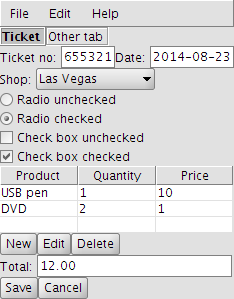
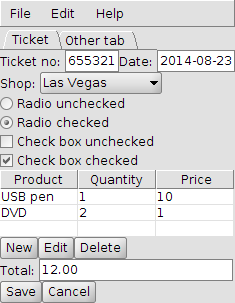
Render tabs using JTabbedPane instead of JPanel with border.

Changed region(s): [[0.0, 0.0301, 1.0, 1.0]]

diff --git a/src/org/mar9000/salt/visitor/SaltSwingVisitor.java b/src/org/mar9000/salt/visitor/SaltSwingVisitor.java
@@ -19,10 +19,8 @@
 package org.mar9000.salt.visitor;
 
 import java.awt.BorderLayout;
-import java.awt.Color;
 import java.awt.Component;
 import java.awt.Container;
-import java.awt.Font;
 import java.util.Iterator;
 import java.util.Vector;
 
@@ -37,9 +35,9 @@ import javax.swing.JMenu;
 import javax.swing.JMenuBar;
 import javax.swing.JPanel;
 import javax.swing.JRadioButton;
+import javax.swing.JTabbedPane;
 import javax.swing.JTable;
 import javax.swing.JTextField;
-import javax.swing.border.EtchedBorder;
 
 import org.antlr.v4.runtime.tree.AbstractParseTreeVisitor;
 import org.antlr.v4.runtime.tree.ParseTree;
@@ -194,28 +192,25 @@ public class SaltSwingVisitor extends AbstractParseTreeVisitor<Container> implem
 		return returnPanel;
 	}
 
-	public static final Color SELECTED_TAB_BACKGROUND_COLOR = new Color(192, 192, 192);
 	@Override
-	public JPanel visitTabBar(TabBarContext ctx) {
-		JPanel tabBar = defaultResult();
-		//tabBar.setBorder(new BevelBorder(BevelBorder.LOWERED));
+	public JTabbedPane visitTabBar(TabBarContext ctx) {
+		JTabbedPane tabbedPane = new JTabbedPane(JTabbedPane.TOP, JTabbedPane.SCROLL_TAB_LAYOUT);
+		//
 		Iterator<TabContext> iter = ctx.tab().iterator();
+		int index = -1;
 		while (iter.hasNext()) {
+			// Vertical box layout to allocate group rows.
+			JPanel p = new JPanel();
+			p.setLayout(new BoxLayout(p, BoxLayout.Y_AXIS));
 			TabContext tabContext = iter.next();
-			JLabel tabLabel = new JLabel(tabContext.text().getText());
-			tabLabel.setOpaque(true);
+			tabbedPane.addTab(tabContext.text().getText(), p);
+			index++;
 			if (tabContext.SELECTED_TAB() != null) {
-				tabLabel.setBackground(SELECTED_TAB_BACKGROUND_COLOR);
-				tabLabel.setFont(tabLabel.getFont().deriveFont(Font.BOLD));
-				tabLabel.setBorder(new EtchedBorder(EtchedBorder.RAISED));
-				tabLabel.setOpaque(true);
-			} else {
-				tabLabel.setBorder(new EtchedBorder(EtchedBorder.LOWERED));
+				tabbedPane.setSelectedIndex(index);
 			}
-			tabBar.add(tabLabel);
 		}
 		//
-		return tabBar;
+		return tabbedPane;
 	}
 	
 	// Not used.
